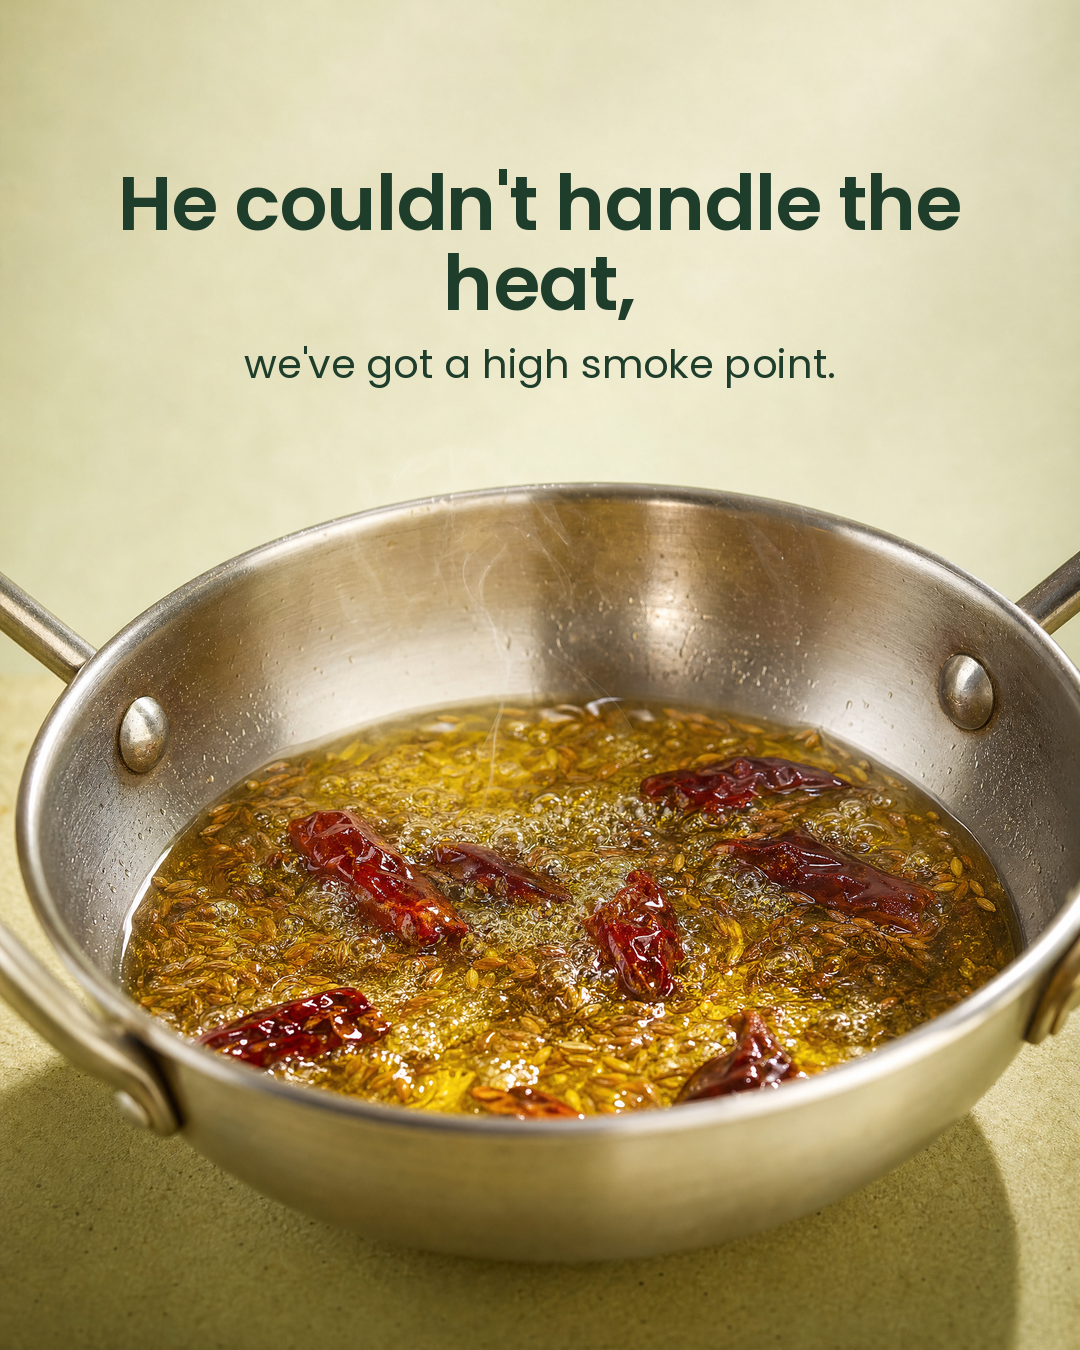
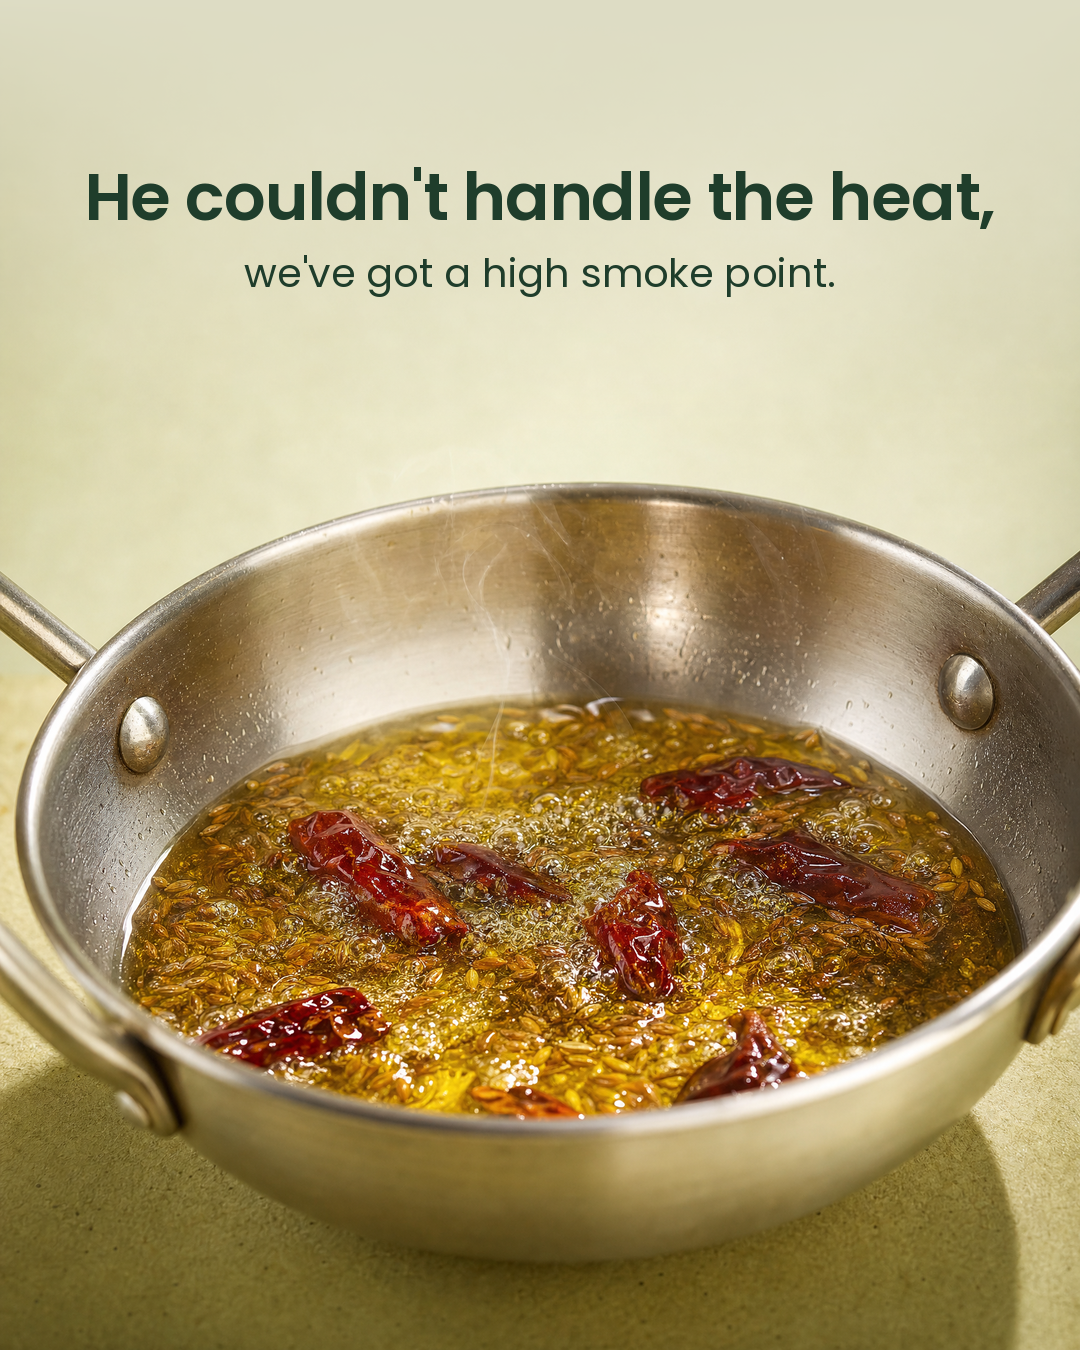
Build full 8-slide Jivo flip-carousel draft (heroes + slides + contact sheet)
5 food/oil heroes + 2 Canola bottle heroes (real product photo as gpt_image_2
reference) + retuned type (66px one-line headlines, top scrim). Drop emoji from
cover copy (Poppins has no emoji glyph).

Changed region(s): [[0.0611, 0.1244, 0.9167, 0.28], [0.0, 0.0, 0.1833, 0.1556], [0.9778, 0.0, 1.0, 0.0311]]

diff --git a/scripts/build_flip_carousel.py b/scripts/build_flip_carousel.py
@@ -31,7 +31,7 @@ STYLE = {
     "margin": 80,                # side safe margin
     "top_y": 150,                # y where the text block starts
     "l1_font": "Poppins-SemiBold.ttf",
-    "l1_size": 76,
+    "l1_size": 66,
     "l1_tracking": -1,           # px between glyphs
     "l1_line_spacing": 1.06,
     "l2_font": "Poppins-Regular.ttf",
@@ -41,7 +41,7 @@ STYLE = {
     "cta_font": "Poppins-Medium.ttf",
     "cta_size": 30,
     "cta_gap": 40,               # gap above CTA
-    "top_scrim": False,          # soft sage-cream->transparent scrim over top 32%
+    "top_scrim": True,           # soft sage-cream->transparent scrim over top 32%
     "scrim_frac": 0.32,
 }
 
@@ -49,7 +49,7 @@ STYLE = {
 # SLIDES  — (id, line1, line2, cta)   hero file = heroes/<id>-*.png
 # ----------------------------------------------------------------------------
 SLIDES = [
-    ("01", "He'll always let you down —", "Jivo never will.  (swipe \U0001FAD2)", None),
+    ("01", "He'll always let you down —", "Jivo never will.   (keep swiping)", None),
     ("02", "He couldn't handle the heat,", "we've got a high smoke point.", None),
     ("03", "He was too heavy,", "we're extra light.", None),
     ("04", "He was so fake,", "we're 100% pure, cold-pressed.", None),
